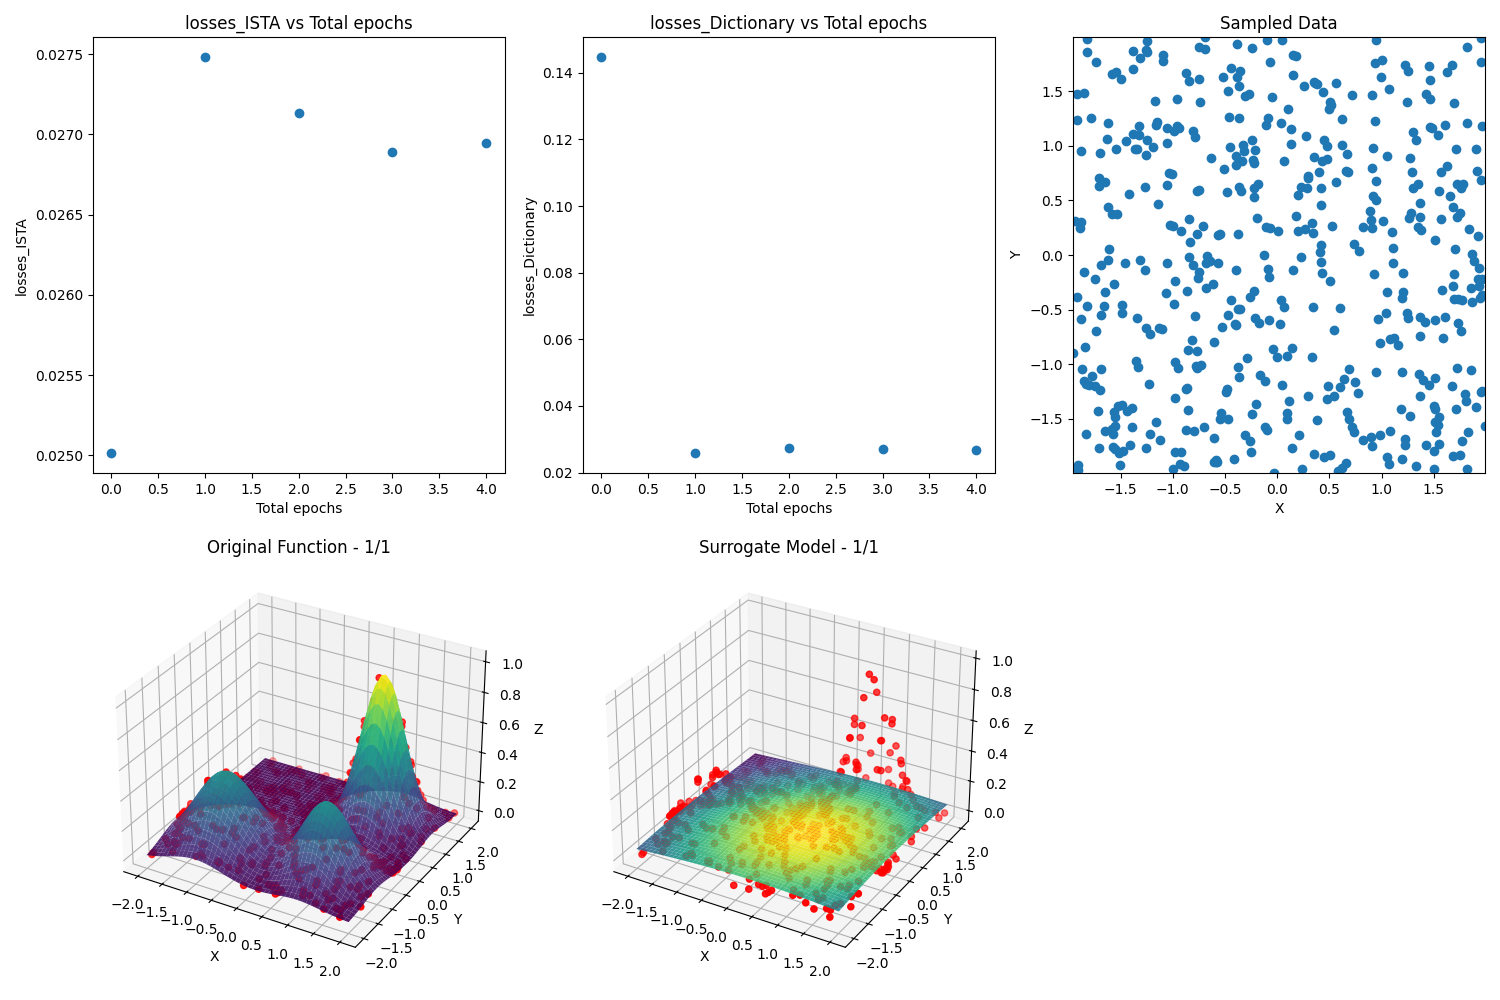
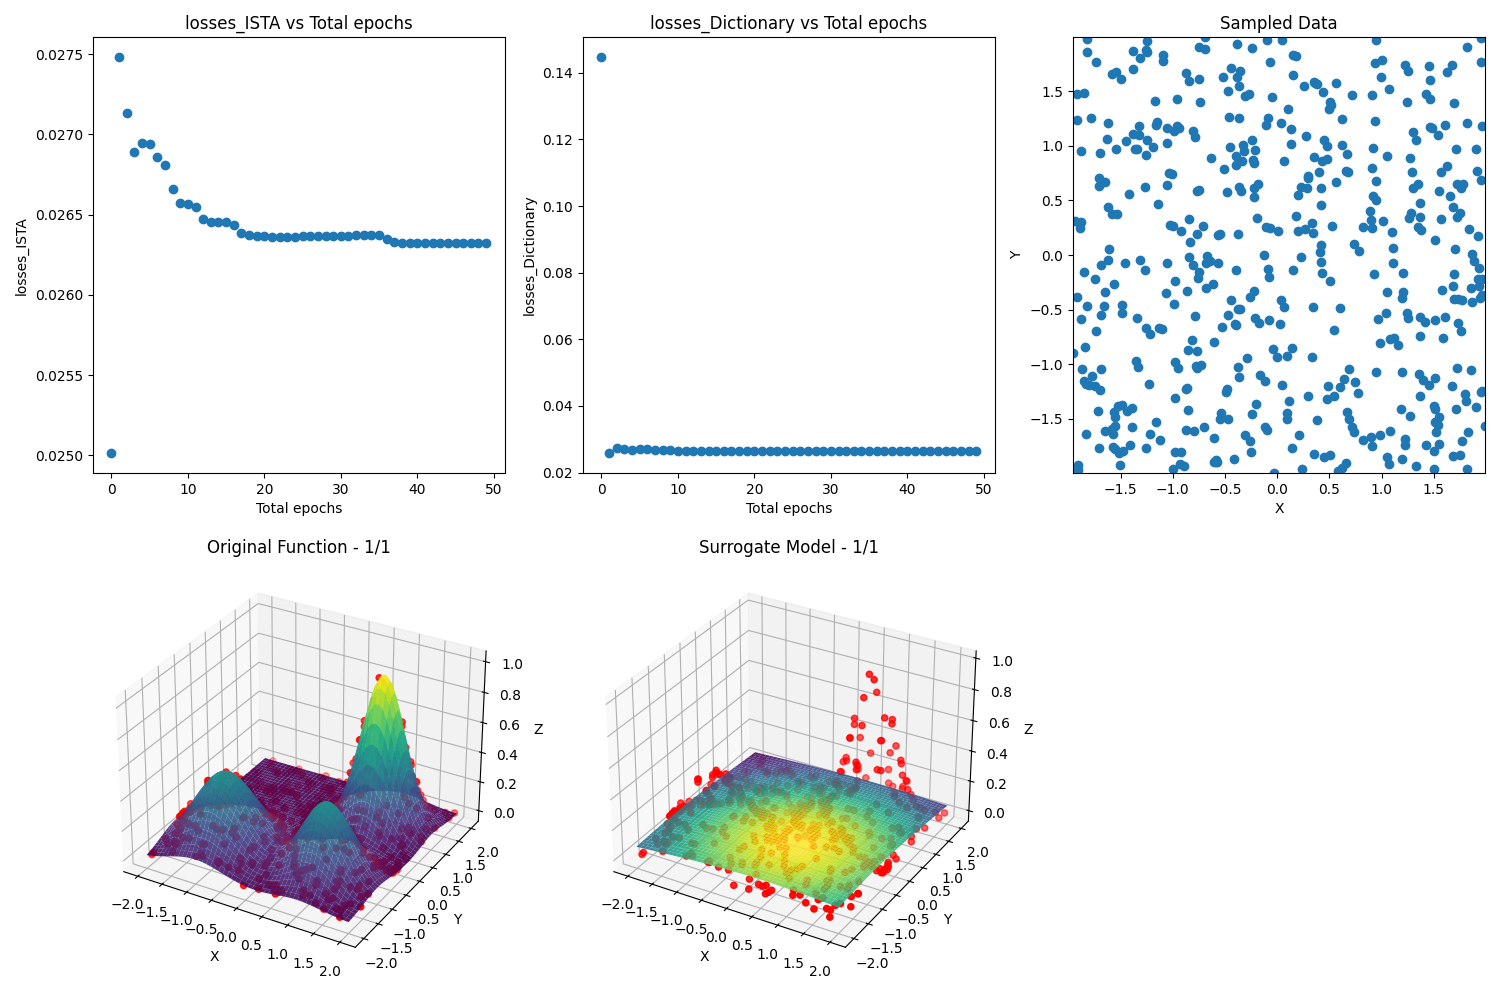
Ajust comments in plot functions

diff --git a/pysesm/utils/plot_and_save_stats.py b/pysesm/utils/plot_and_save_stats.py
@@ -8,8 +8,7 @@ import os
 
 from pysesm.models.SESM.SESM import SESM
 
-
-def plot_surface(test_dataset, X_train, y_train, Z, folder_name, model: SESM, hypset):
+def plot_surface(test_dataset, X_train, y_train, Z, model: SESM, hypset):
     """
     Plots multiple subplots including loss curves, sampled data, original function, and surrogate model surface.
 
@@ -19,16 +18,10 @@ def plot_surface(test_dataset, X_train, y_train, Z, folder_name, model: SESM, hy
     - X_train (torch.Tensor): The input data points for training.
     - y_train (torch.Tensor): The target values for training.
     - Z (torch.Tensor): The predicted values (surface) from the surrogate model.
-    - folder_name (str): The hyperparameter set identifier.
-    - fngroup (str): The function group identifier.
-    - iteration (int): The iteration number of the experiment.
-    - losses_ISTA (list): List of ISTA losses over epochs.
-    - losses_Dictionary (list): List of Dictionary losses over epochs.
+    - model(SESM): trained model
+    - hypset(int): The hyperparameter set identifier.
     """
-    # Asegurarse de que el directorio exista
-    os.makedirs(f"{folder_name}/plots", exist_ok=True)
-    os.makedirs(f"{folder_name}/stats", exist_ok=True)
-
+    
     # Matplotlib subplots (no interactivas)
     fig = plt.figure(figsize=(15, 10))
 
@@ -79,6 +72,29 @@ def plot_surface(test_dataset, X_train, y_train, Z, folder_name, model: SESM, hy
     ax2.set_title(f"Surrogate Model - {hypset}/{model.dfngroup}")
 
     plt.tight_layout()
+    return fig
+
+def save_surface(test_dataset, X_train, y_train, Z, folder_name, model: SESM, hypset):
+    """
+    Saves the plot results as subplots including loss curves, sampled data, original function, and surrogate model surface.
+
+    Args:
+    - train_dataset (dict): A dictionary containing the training dataset.
+    - test_dataset (dict): A dictionary containing the test dataset.
+    - X_train (torch.Tensor): The input data points for training.
+    - y_train (torch.Tensor): The target values for training.
+    - Z (torch.Tensor): The predicted values (surface) from the surrogate model.
+    - model(SESM): trained model
+    - folder_name (str): Destination of created files
+    - hypset(int): The hyperparameter set identifier.
+    """
+    # Asegurarse de que el directorio exista
+    os.makedirs(f"{folder_name}/plots", exist_ok=True)
+    os.makedirs(f"{folder_name}/stats", exist_ok=True)
+
+    # Matplotlib subplots (no interactivas)
+    fig = plot_surface(test_dataset,X_train,y_train,Z,model,hypset)
+
     plt.savefig(f"{folder_name}/plots/{model.dfngroup}.{1}_static.png")
     plt.close(fig)
 

diff --git a/examples/one_block_example.py b/examples/one_block_example.py
@@ -1,3 +1,5 @@
+
+
 import logging
 import torch
 
@@ -83,7 +85,7 @@ try:
 
         logging.info("Model: {}, MSE Value = {:.6f}, time ={:.6f}".format(model.__class__.__name__, mse_value, time))
 
-        plot_surface(testDataset, X_train, y_train, Z_predict, model_folder, model, experiment["hyp_set"])
+        plot_surface(testDataset, X_train, y_train, Z_predict, model, experiment["hyp_set"])
 
     plt.show(block=True)
 except KeyboardInterrupt: